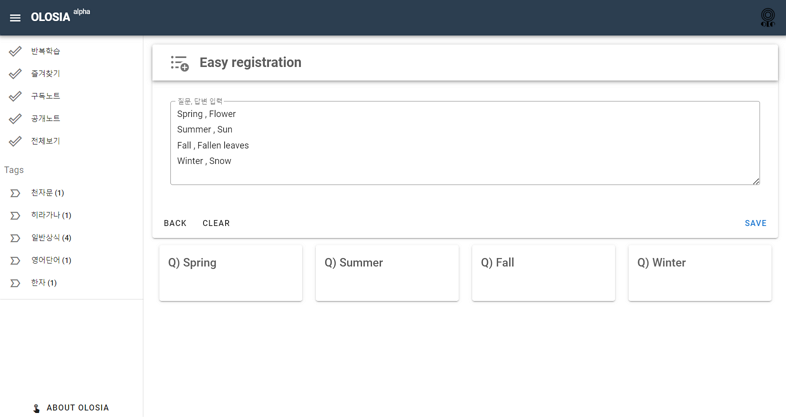
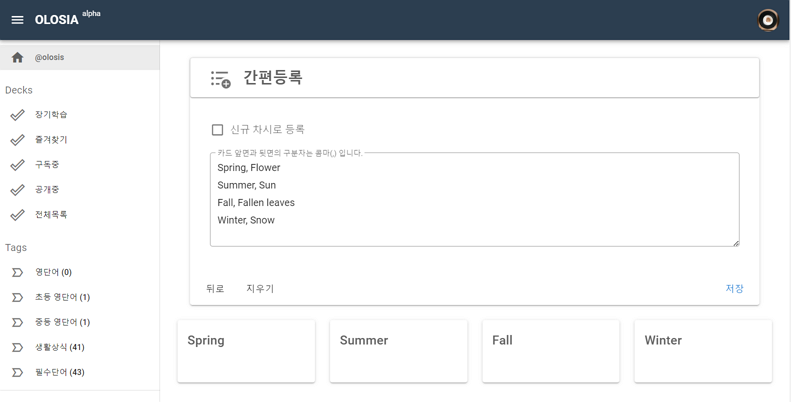
차시기능 / 일괄등록 기능 메뉴얼 작성

diff --git a/docs/user-home/card-edit.md b/docs/user-home/card-edit.md
@@ -12,7 +12,7 @@ nav_order: 6
 
 ![card-edit](/assets/images/card-edit.png)
 
-간편등록
+## 간편등록
 
     카드 앞,뒷면에 해당하는 질문/답변을 여러줄 작성하여 한 번에 등록합니다.
 
@@ -20,10 +20,26 @@ nav_order: 6
 
 ![card-edit-easy](/assets/images/card-edit-easy.png)
 
-엑셀 업로드
+## 엑셀등록
 
     카드 앞뒷면에 해당하는 질문, 답변 그리고 설명을 작성한 엑셀 파일을 업로드하여 한 번에 등록합니다.
 
     Excel Templete 파일을 다운로드하여 양식을 확인 후 작성하시고 등록합니다.
 
 ![card-edit-upload](/assets/images/card-edit-upload.png)
+
+### 신규 차시로 등록
+
+    간편등록 / 엑셀등록 페이지에는 신규 차시로 등록 이라는 항목이 있습니다.
+
+    이는 암기장에 일괄등록하는 카드 목록을 새로운 분류, 단원, 차시 등의 개념으로 나눠주는 선택 기능입니다.
+
+    신규 차시로 등록을 체크하시면 차시명 등록이라는 선택 입력란이 추가로 나타나게 됩니다.
+
+## 카드관리
+
+![card-manage](/assets/images/card-manage.png)
+
+    현재 암기장 카드정보 Excel 파일을 다운로드 받아 편집 후 일괄로 업데이트 하실 수 있습니다.
+
+    카드 분류와 내용을 일괄적으로 수정하는 기능입니다.

diff --git a/docs/user-home/note-main.md b/docs/user-home/note-main.md
@@ -35,7 +35,11 @@ SHUFFLE 버튼을 통해 카드 목록을 뒤섞는 기능을 제공합니다.
 
     간편등록 : 카드 앞,뒷면에 해당하는 질문/답변을 여러줄 작성하여 한 번에 등록합니다.
 
-    엑셀 업로드 : 카드 앞뒷면에 해당하는 질문, 답변 그리고 설명을 작성한 엑셀 파일을 업로드하여 한 번에 등록합니다.
+    엑셀등록 : 카드 앞뒷면에 해당하는 질문, 답변 그리고 설명을 작성한 엑셀 파일을 업로드하여 한 번에 등록합니다.
+
+## 암기장 관리
+
+![note-manage](/assets/images/note-manage.png)
 
 ### 장기학습
 
@@ -46,6 +50,18 @@ SHUFFLE 버튼을 통해 카드 목록을 뒤섞는 기능을 제공합니다.
 ### 즐겨찾기
 
     회원 홈의 즐겨찾기 메뉴에 등록됩니다.
+
+### 암기장 수정
+
+    현재 암기장 정보를 수정합니다.
+
+### 카드관리
+
+    현재 암기장 카드정보 Excel 파일을 다운로드 받아 편집 후 일괄로 업데이트 하실 수 있습니다.
+
+### 삭제
+
+    현재 암기장을 삭제합니다.
 
 <br /><br />
 
